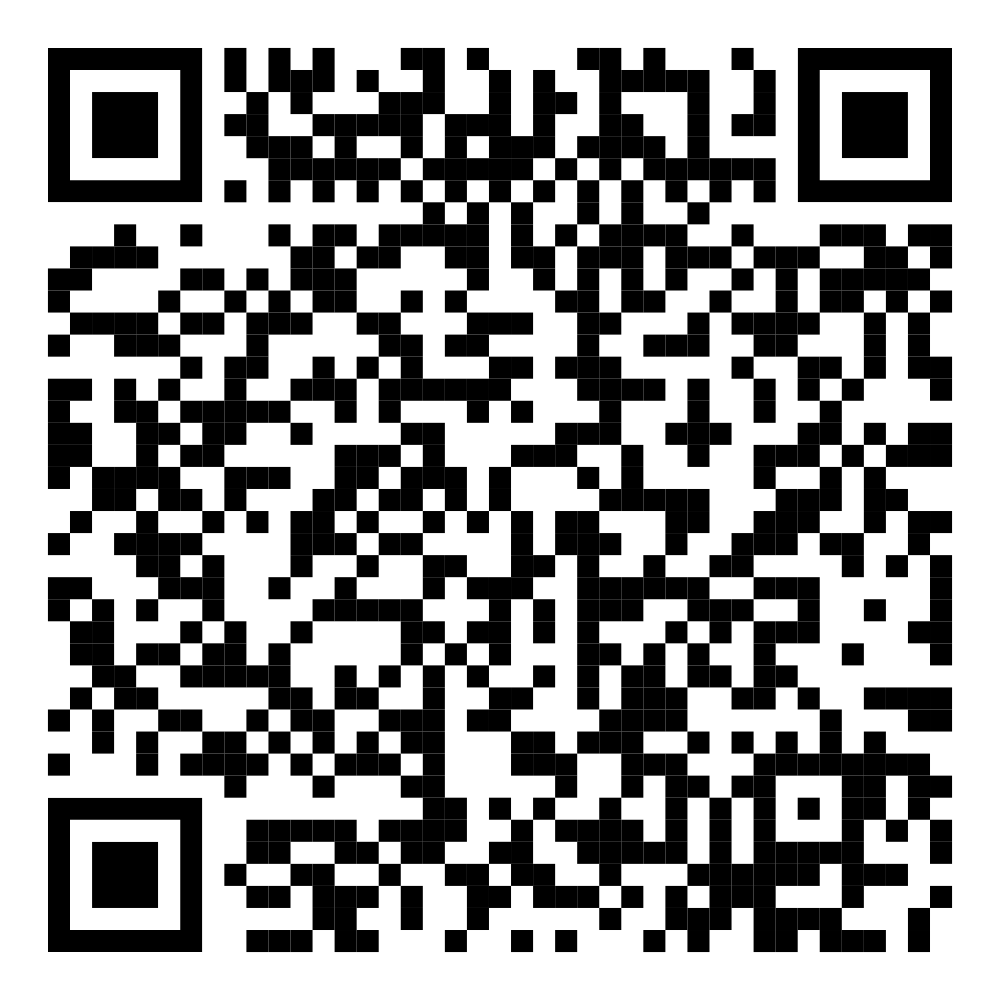
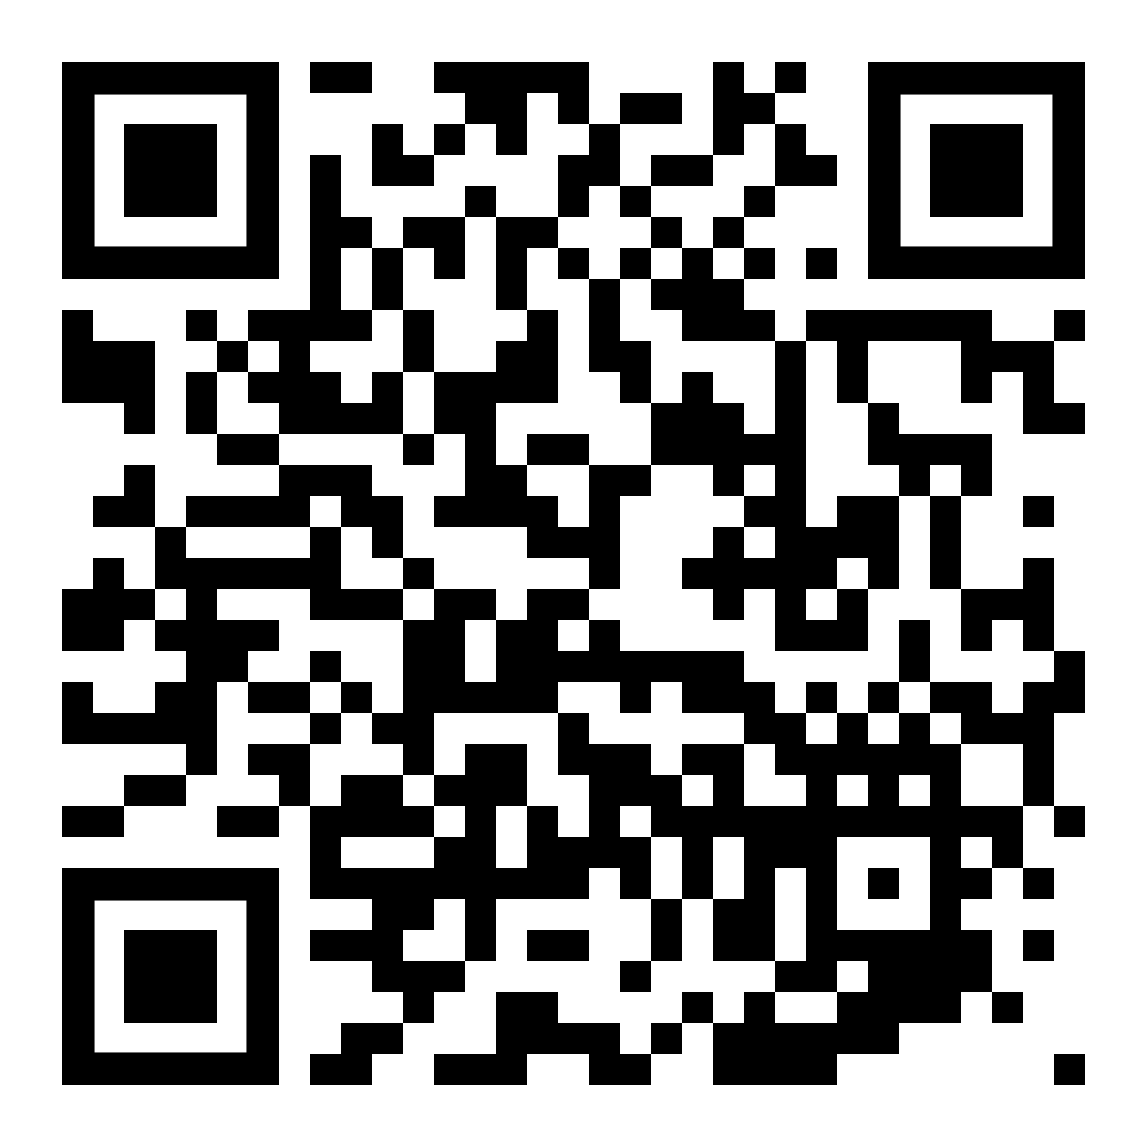
Final final touches

diff --git a/slides.md b/slides.md
@@ -30,7 +30,7 @@ layout: center
 
 # Slides
 
-[**https://nushackers.github.io/chrome_devtools_slides**](https://nushackers.github.io/chrome_devtools_slides)
+[**https://nushackers.github.io/chrome_devtools_workshop**](https://nushackers.github.io/chrome_devtools_workshop)
 
 <img src="/slides_link.png" class="ml-25 h-60" />
 
